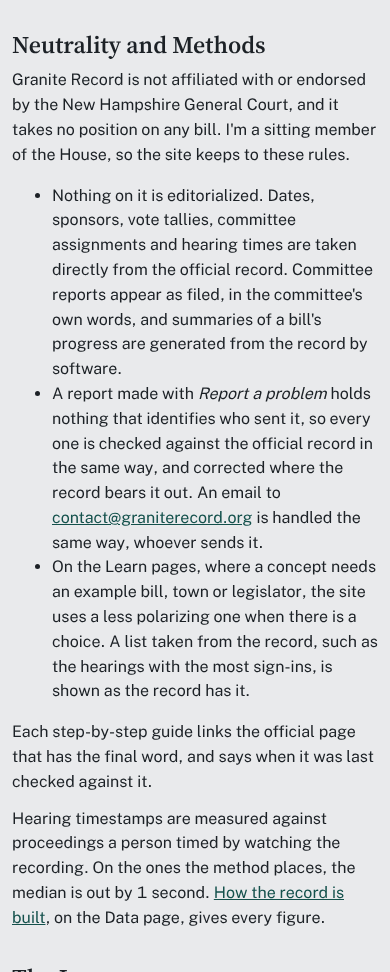
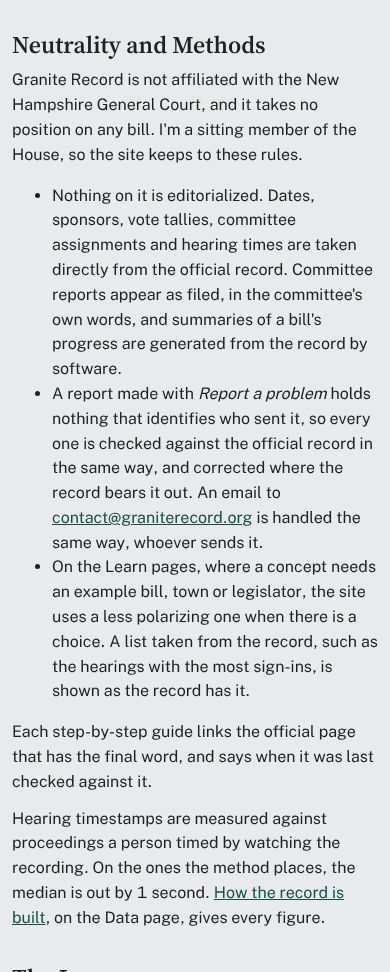
About draft: the "or endorsed by" cut, and the 390 light shot again
Claude-Session: https://claude.ai/code/session_01M8HKBC1rpjB1TUrF813wKY

Changed region(s): [[0.0308, 0.0617, 0.9538, 0.1852]]

diff --git a/docs/design/about-neutrality/draft.md b/docs/design/about-neutrality/draft.md
@@ -106,3 +106,8 @@ only under "Independence". So the section opens with that sentence, word for
 word, and nothing is lost. `shots/` holds the section at 390 and 1280, light
 and dark, drawn into the preview's About page with the median the Data page
 gives today (1 second).
+
+Later the same day, at the owner's word ("not affiliated" is enough), the
+opening sentence lost "or endorsed by": "Granite Record is not affiliated with
+the New Hampshire General Court, and it takes no position on any bill." Only
+`shots/about-neutrality-390-light.png` was taken again.
